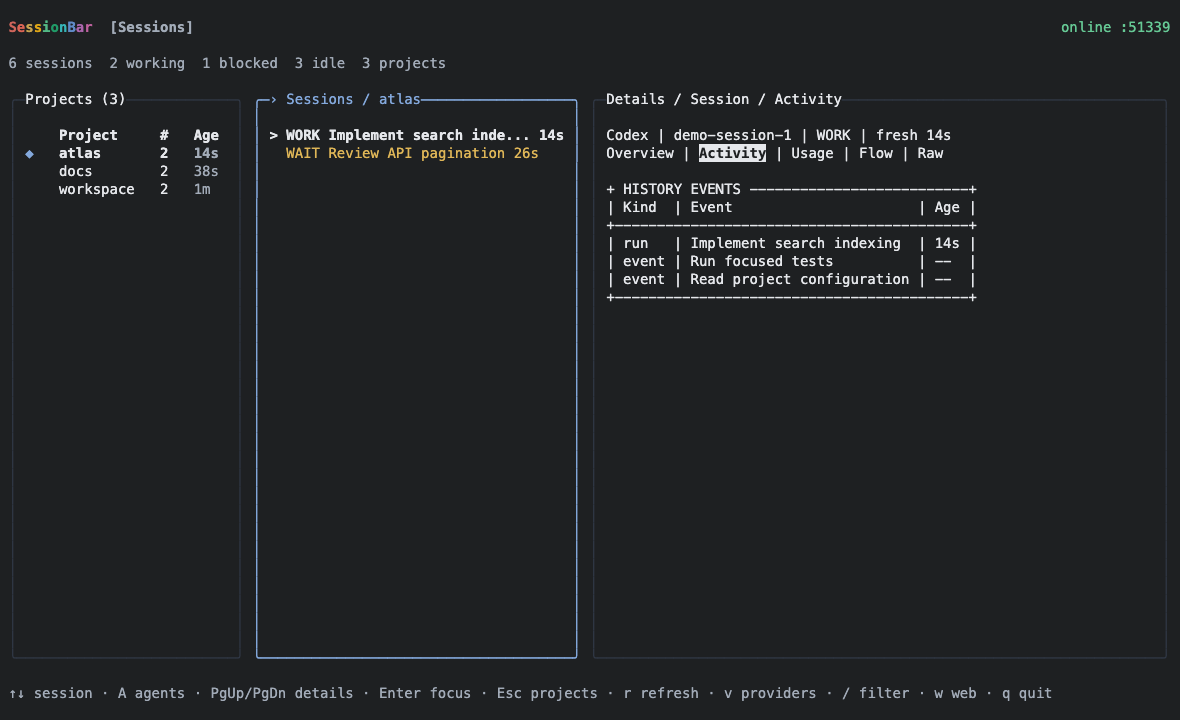
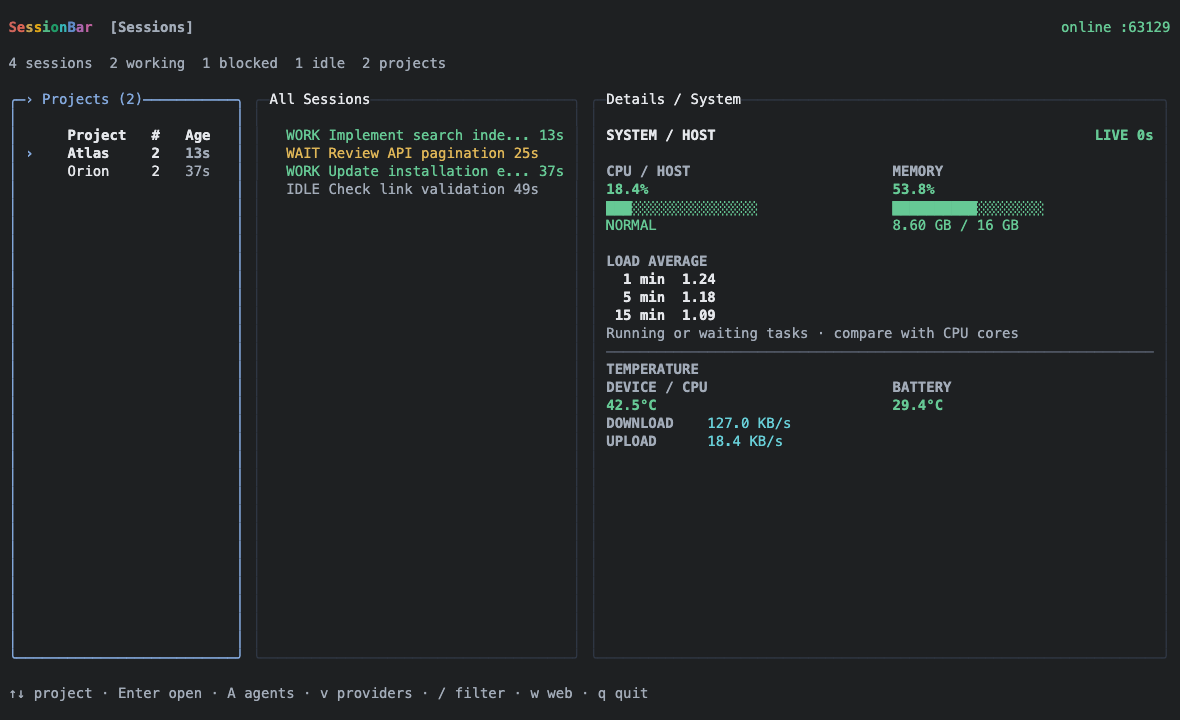
docs: refresh bilingual main guidance and privacy-safe UI captures

diff --git a/README.zh-CN.md b/README.zh-CN.md
@@ -8,7 +8,7 @@
 
 ## 最新动态
 
-- **2026-11-01 · v1.1.0 后续源码修复：** 严格校验重置卡兑换结果、限制慢响应体的读取时间，并避免原生日志与账户观测重叠时重复计量配额用量。
+- **2026-11-15 · v1.1.0 后续源码修复（非新 Release）：** 修正 Web 统计、仅影响展示的 Provider 常用筛选、重置卡未知/零值与 Gantt 时间；改进窄终端布局和会话名称。保留兑换结果校验、慢响应读取限时及配额去重修复。
 - **2026-10-30 · v1.1.0 运行时：** 统一 Provider 网络策略，显式安全重启、归属验证与资源回收；文件变化防抖后定向刷新。
 - **2026-10-30 · Harness：** Kimi Code、ZCode、Cursor 原生上报；WorkBuddy 数据库/WAL 发现、DeepSeek Harness 快照与 Codex 身份修复。
 - **2026-10-30 · Agent 详情：** 按需查看 Codex、Claude、DeepSeek 子 Agent，分页对话及原生执行/Flow 证据。
@@ -49,7 +49,7 @@ Agent 进程。
     <td colspan="2" align="center"><img src="docs/images/tui-landing.png" width="560" alt="SessionBar TUI 首页"><br><sub><b>TUI · 首页</b></sub></td>
   </tr>
   <tr>
-    <td width="50%" align="center"><img src="docs/images/tui-sessions.png" alt="SessionBar TUI 项目、会话与活动详情"><br><sub><b>TUI · 会话</b></sub></td>
+    <td width="50%" align="center"><img src="docs/images/tui-sessions.png" alt="SessionBar TUI 项目、会话与系统总览"><br><sub><b>TUI · 会话</b></sub></td>
     <td width="50%" align="center"><img src="docs/images/tui-providers.png" alt="SessionBar TUI Provider 总览"><br><sub><b>TUI · Providers</b></sub></td>
   </tr>
   <tr>
@@ -58,9 +58,10 @@ Agent 进程。
   </tr>
 </table>
 
-> 截图于 2026-10-30 根据本次发布的实际 UI 生成，使用隔离的模拟项目、会话、系统指标和
+> 截图于 2026-11-15 根据当前 `main` 源码的实际 UI 生成，使用隔离的合成项目、会话、系统指标和
 > Provider 数值，不包含真实账户数据、凭据或个人路径。缺失字段仍显示为不可用；
 > 实际数据覆盖范围取决于 Harness 和 Provider Adapter。
+> 截图不代表未更新的 v1.1.0 下载包；详见[合成截图声明](docs/images/screenshots-manifest.json)。
 
 > SessionBar 使用终端自身的背景色；实际颜色和对比度会随终端主题变化。
 
@@ -94,6 +95,8 @@ sessionbar
 
 这是 GitHub 发布包，不代表已发布到 npm Registry。
 安装包与对应的校验文件应从同一个 Release 一起下载。
+2026-11-15 的源码修复仅在当前 `main` 中；既有 v1.1.0 下载包、Tag 和
+发布归档未更新，不包含这些修复。
 
 ### 从源码安装
 
@@ -134,6 +137,10 @@ Tab、方括号或 `1`–`5` 切换详情，`a` 或 Backspace 返回全部项目
 `v` 切换 Providers、`A` 切换 Agents、`r` 刷新、`/` 过滤、`w` 打开网页、`q` 退出。
 未聚焦项目时显示全部 Session。Web 中点击项目和会话，向下滚动进入 Providers。
 详情支持 `PageUp`、`PageDown`、`Home`、`End`，窄终端也可访问底部内容。
+
+Web Provider 常用筛选仅改变展示的行，不改变采集或轮询频率。
+**Current** 表示配额百分比或周期累计读数，不是今日消耗；**Today** 按所选指标
+汇总已有的当日用量，不混加不同货币或单位。
 
 退出 TUI 只释放当前客户端，不会关闭其他客户端或浏览器标签。最后一个客户端
 断开后有五分钟重连宽限；显式启动的无界面 Relay 不会仅因空闲而退出。
@@ -206,6 +213,11 @@ WorkBuddy 可配置只读 `SESSIONBAR_WORKBUDDY_BALANCE_COMMAND` 输出校验后
 ACP 接口采集；xAI Management API 需要启动环境同时包含
 `SESSIONBAR_XAI_MANAGEMENT_API_KEY` 和 `SESSIONBAR_XAI_TEAM_ID`，本次不含 Web 凭据编辑器。
 采集值保留原始来源时间。
+
+上游请求失败（包括 HTTP 403）或缺失顶层卡清单时，卡数为 **unknown（未知）**；
+成功取得的空清单表示 **zero（零张）**。本轮不提供逐条卡数据的完整校验。
+自动兑换默认关闭；在 **CLI Settings** 中开启须输入 `ENABLE`，会消耗真实重置卡。
+当前没有 Web 设置页。
 
 Provider HTTP 共用 Relay 网络策略：显式代理环境优先，否则读取 macOS 现有系统代理，
 再否则沿用正常系统路由。Loopback 始终直连，不开启代理或修改系统设置。

diff --git a/README.md b/README.md
@@ -8,9 +8,10 @@
 
 ## What's New
 
-- **2026-11-01 · Source fixes after v1.1.0:** Validate reset-card redemption
-  responses, bound slow response-body reads, and avoid double-counting quota
-  usage across overlapping native logs and account observations.
+- **2026-11-15 · Source fixes after v1.1.0 (not a new release):** Correct Web
+  statistics, display-only frequent-use Provider filters, reset-card unknown/zero
+  states and Gantt timing; improve narrow-terminal layouts and session names.
+  Retain validated redemption, bounded response reads and quota deduplication.
 - **2026-10-30 · v1.1.0 Runtime:** Shared Provider networking, explicit safe
   restart, owned-process cleanup and debounced targeted filesystem refreshes.
 - **2026-10-30 · Harnesses:** Native Kimi Code, ZCode and Cursor reporting;
@@ -57,7 +58,7 @@ of treating the project as a single agent process.
     <td colspan="2" align="center"><img src="docs/images/tui-landing.png" width="560" alt="SessionBar TUI landing screen"><br><sub><b>TUI · Landing</b></sub></td>
   </tr>
   <tr>
-    <td width="50%" align="center"><img src="docs/images/tui-sessions.png" alt="SessionBar TUI project, sessions and activity details"><br><sub><b>TUI · Sessions</b></sub></td>
+    <td width="50%" align="center"><img src="docs/images/tui-sessions.png" alt="SessionBar TUI projects, sessions and system overview"><br><sub><b>TUI · Sessions</b></sub></td>
     <td width="50%" align="center"><img src="docs/images/tui-providers.png" alt="SessionBar TUI provider overview"><br><sub><b>TUI · Providers</b></sub></td>
   </tr>
   <tr>
@@ -66,10 +67,12 @@ of treating the project as a single agent process.
   </tr>
 </table>
 
-> Captured from this release's actual UI on 2026-10-30, using isolated synthetic
+> Captured from the current `main` source's actual UI on 2026-11-15, using isolated synthetic
 > projects, sessions, system readings, and provider values. No real account data,
 > credentials, or personal paths are included. Missing fields stay unavailable;
 > actual data coverage depends on the harness and provider adapter.
+> These screenshots do not describe the unchanged v1.1.0 download archive.
+> See the [synthetic capture manifest](docs/images/screenshots-manifest.json).
 
 > SessionBar uses the terminal's background. Colors and contrast vary with the
 > active terminal theme.
@@ -107,6 +110,8 @@ sessionbar
 
 This is a GitHub release archive, not an npm registry publication. Download
 the archive and its matching checksum file from the same release.
+The 2026-11-15 source fixes are on current `main` only; the existing v1.1.0
+download, tag and release archive have not been updated to include them.
 
 ### From Source
 
@@ -150,6 +155,11 @@ projects; `v` switches Providers, `A` switches Agents; `r` refreshes, `/` filter
 and `q` exits. Without a focused project, all sessions are shown. In Web, click
 projects and sessions; scroll down for Providers.
 Use `PageUp`, `PageDown`, `Home` and `End` to reach all detail content in small terminals.
+
+Web frequent-use Provider filters change the displayed rows only; they do not
+change collection or polling frequency. **Current** identifies quota percentages
+or cycle-cumulative readings, not today's consumption. **Today** summarizes the available daily
+usage in the selected metric; different currencies and units stay separate.
 
 Exiting TUI releases that client, not other open clients or browser tabs.
 After the last client disconnects, a five-minute reconnection grace applies;
@@ -231,6 +241,12 @@ CLI billing uses its read-only ACP endpoint when installed and authenticated.
 xAI Management API queries require both `SESSIONBAR_XAI_MANAGEMENT_API_KEY` and
 `SESSIONBAR_XAI_TEAM_ID` in the startup environment; no Web credential editor
 is included. Collected values preserve their original source time.
+
+Reset-card counts remain **unknown** when the upstream request fails (including
+HTTP 403) or the top-level card inventory is missing; a fetched empty inventory
+means **zero**. This is not full validation of individual card entries.
+Automatic redemption is off by default; enabling it in **CLI Settings** requires
+typing `ENABLE` and spends real cards. There is no Web settings page.
 
 Provider HTTP uses the Relay's shared network policy: explicit proxy environment
 first, otherwise existing macOS system proxies, otherwise the normal system
